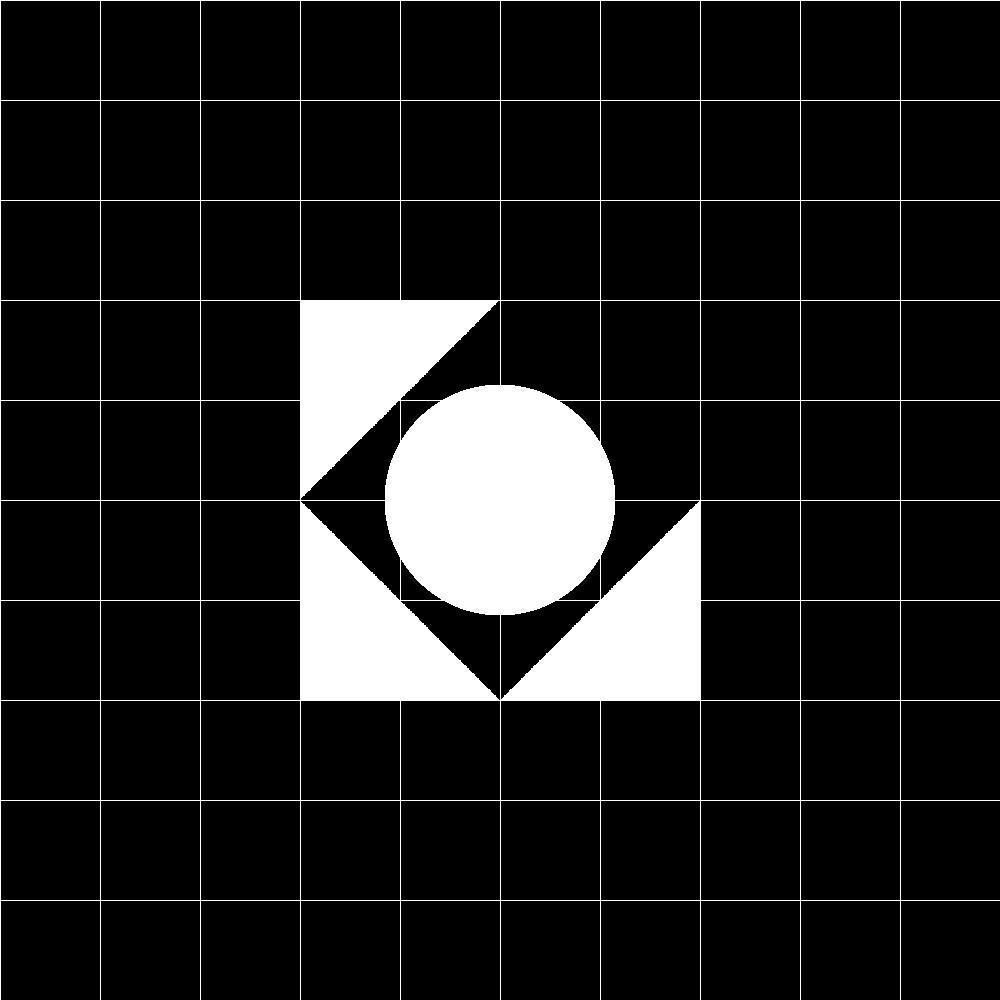
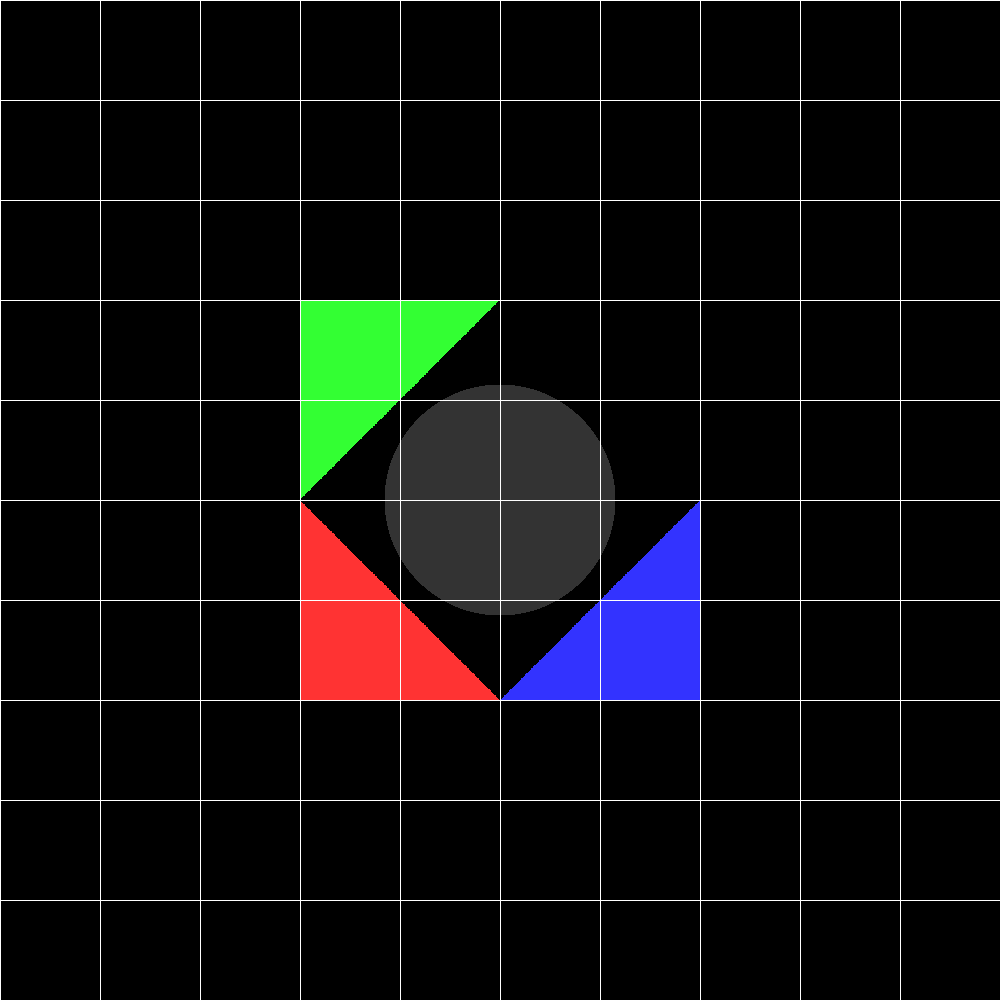
fixed RenderTests and Triangle.findGeoIntersections

Changed region(s): [[0.279, 0.279, 0.713, 0.713]]

diff --git a/src/geometries/Geometry.java b/src/geometries/Geometry.java
@@ -7,24 +7,30 @@ import primitives.*;
  */
 public abstract class Geometry extends Intersectable {
 
-    protected Color _emission=Color.BLACK;
+    protected Color _emission = Color.BLACK;
+
     /**
      * getter for emission
+     *
      * @return emission variable
      */
     public Color getEmission() {
         return _emission;
     }
+
     /**
      * setter for emission
+     *
      * @return this
      */
-    public Geometry setEmission(Color _emission) {
-        this._emission = _emission;
+    public Geometry setEmission(Color emission) {
+        this._emission = emission;
         return this;
     }
+
     /**
      * Returns a normal vector to current geometry
+     *
      * @param point point from which a normal vector is requested
      * @return a normal vector
      */

diff --git a/src/geometries/Triangle.java b/src/geometries/Triangle.java
@@ -39,8 +39,15 @@ public class Triangle extends Polygon {
         if (!isInside(intersections.get(0)._point)) {
             return null;
         }
+        intersections.get(0)._geometry = this;
         return intersections;
     }
+
+    /**
+     * find whether aa given point is inside the triangle or not
+     * @param p point to check
+     * @return true if inside, false if outside
+     */
     private boolean isInside(Point p) {
         Point a = this._vertices.get(0);
         Point b = this._vertices.get(1);

diff --git a/src/renderer/RayTracerBasic.java b/src/renderer/RayTracerBasic.java
@@ -24,6 +24,12 @@ public class RayTracerBasic extends RayTracerBase {
         GeoPoint closest = ray.findClosestGeoPoint(points);
         return calcColor(closest);
     }
+
+    /**
+     * calculates color for given point
+     * @param point point to calculate color for
+     * @return the color of the point
+     */
     private Color calcColor(GeoPoint point){
         return _scene._ambientLight.getIntensity().add(point._geometry.getEmission());
     }

diff --git a/src/lighting/AmbientLight.java b/src/lighting/AmbientLight.java
@@ -12,7 +12,7 @@ import primitives.*;
 public class AmbientLight {
 
     /**
-     * intensity of ambient light (brightness)
+     * intensity of ambient light (brightness - color)
      */
     private Color _intensity;
     /**
@@ -25,7 +25,7 @@ public class AmbientLight {
     }
 
     public AmbientLight(Color intensity, Double3 ka) {
-        _intensity = intensity;
+        _intensity = intensity.scale(ka);
         _ka = ka;
     }
 

diff --git a/src/geometries/Polygon.java b/src/geometries/Polygon.java
@@ -166,7 +166,9 @@ public class Polygon extends Geometry {
             if(sign != product > 0)
                 return null;
         }
-        return _plane.findGeoIntersections(ray);
+        List<GeoPoint> intersections = _plane.findGeoIntersections(ray);
+        intersections.get(0)._geometry = this;
+        return intersections;
     }
 
 }

diff --git a/unitTests/renderer/RenderTests.java b/unitTests/renderer/RenderTests.java
@@ -1,4 +1,4 @@
-package unittests.renderer;
+package renderer;
 
 import org.junit.jupiter.api.Test;
 
